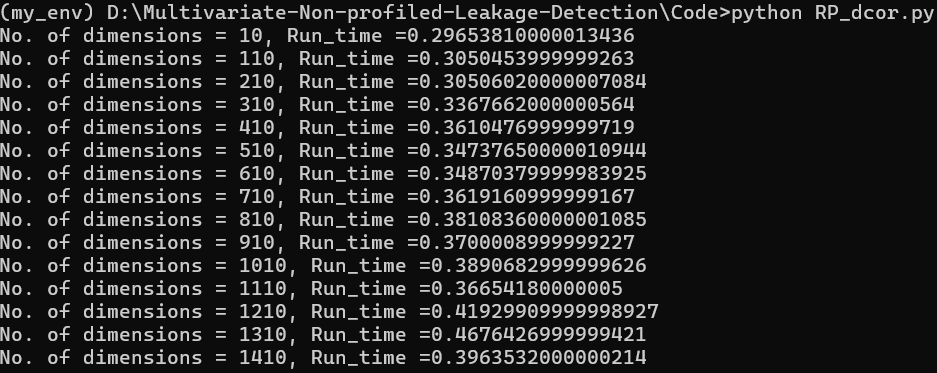
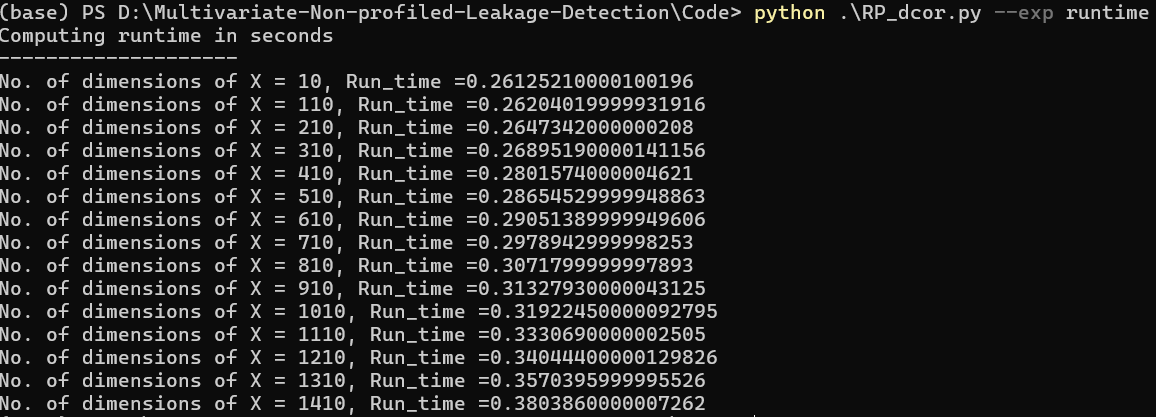
UPDATE code

Changed region(s): [[0.0, 0.0, 1.0, 1.0]]

diff --git a/Code/RP_dcor.py b/Code/RP_dcor.py
@@ -19,6 +19,17 @@ from mpmath import*
 from timeit import default_timer as timer # For evaluating the computation time
 
 
+## for running one of the main functions
+import argparse
+
+
+
+
+
+
+
+
+
 # Required to calculate the upper alpha point (cutoff) of gamma distribution
 def gamma_ratio(p): return np.exp(gammaln((p+1)/2) - gammaln(p/2))  # For Calculating C_p and C_q
 
@@ -235,10 +246,11 @@ def checking_correctness():
     
     # Define the mean vector and 'symmetric' Covariance matrix for multivariate Gaussian simulation
     mean_vector = np.repeat(3, dim_data)
-    A = 0.01 * np.random.rand(dim_data, dim_data) # increase the 0.01 to higher value will increase the variance values in Cov_matrix
+    delta_ = 0.1 # change the delta value for higher or lower dcov value
+    A = delta_ * np.random.rand(dim_data, dim_data) # increase the 0.01 to higher value will increase the variance values in Cov_matrix
     Cov_matrix = np.dot(A, A.transpose())  
     
-    n_samples = 3000  
+    n_samples = 500  
     print("Data size = {}".format(n_samples)) 
     
     # Simulated Data from Multivariate Gaussian Distribution----------------
@@ -248,15 +260,19 @@ def checking_correctness():
     pred_lkg = X.T[(dim_data-2):]
     
     dim_Tr = np.shape(Tr)[0]
-    print("dimension of Tr = {}".format(dim_Tr))
+    dim_pred_lkg = np.shape(pred_lkg)[0]
+
+
+    print("dimension of X = {}".format(dim_Tr))
+    print("dimension of Y = {}".format(dim_pred_lkg))    
     
     # For checking accuracy of the 'fast' dcov estimator with the 'naive' one    
-    print("distance covariance based on naive approach ={} ".format(  # Uncomment this part for higher(>5) dim_data
+    print("distance covariance between X and Y based on naive approach ={} ".format(  # Uncomment this part for higher(>5) dim_data
        u_distance_covariance_sqr(Tr.T, pred_lkg.T, method='naive')))  
     
     start = timer()
     print("Computing fast distance covariance = {}".format(
-        u_dist_cov_sqr_mv(Tr.T, pred_lkg.T)))
+        u_dist_cov_sqr_mv(Tr.T, pred_lkg.T , n_projs = 100)))
     end = timer()
     print("Time to compute fast distance covariance in seconds = {}".format(end - start))
 
@@ -270,6 +286,7 @@ def scalability_testing():
     
     # Specifiy the dimension n_d
     n_samples = int(2e03)
+    print("Computing runtime in seconds\n--------------------")
     for dim_data in range(10, 1500, 100): 
     
         # Define the mean vector and 'symmetric' Covariance matrix for multivariate Gaussian simulation
@@ -288,15 +305,46 @@ def scalability_testing():
         u_dist_cov_sqr_mv(Tr.T, pred_lkg.T)
         end = timer()
         
-        print("No. of dimensions = {}, Run_time ={}".format( dim_data ,   end - start))
+        
+        print("No. of dimensions of X = {}, Run_time ={}".format( dim_data ,   end - start))
+
+
+
+
+
+def parse_args():
+    parser = argparse.ArgumentParser(
+        description="Run MVDCOV for scalability checking"
+    )
+
+    parser.add_argument(
+        "--exp",
+        required=True,
+        choices=[
+            "runtime",
+            "correctness",
+        ],
+        help="Experiment to run",
+    )
+
+    return parser.parse_args()
+
+
+
+if __name__ == "__main__":
+    args = parse_args()
+
+    if args.exp == "runtime":
+        scalability_testing()
+
+    elif args.exp == "correctness":
+        checking_correctness()
 
 
 
 
 
 
-
-
-if __name__ == '__main__':
-    # checking_correctness() 
-    scalability_testing()
+# if __name__ == '__main__':
+#     # checking_correctness() 
+#     scalability_testing()

diff --git a/Code/leakage_test_runner.py b/Code/leakage_test_runner.py
@@ -126,8 +126,8 @@ def run_all_tests(
         stat, cutoff = diag_test(n_1, n_2, n_dim, Tr_random, Tr_fixed)
         results["diag"] = stat > cutoff
         
-     ## To use mv_gtest one have to Digitise
-     ## the trace please see Digitizer class in testnbr_dist_1.py  
+     ## To use mv_gtest one have to Digitise the trace 
+     ## please see Digitizer class in testnbr_dist_1.py  
      
     if "mv_gtest" in enabled_tests:  
         Tr, V = _build_Tr_and_V_exact(Tr_fixed, Tr_random)

diff --git a/Code/out_of_the_box_exp.py b/Code/out_of_the_box_exp.py
@@ -23,7 +23,7 @@ from scipy.special import gammaln
 
 
 
-## for running one of the main function
+## for running one of the main functions
 import argparse
 
 

diff --git a/Code/Readme.md b/Code/Readme.md
@@ -22,11 +22,18 @@ sudo pip install numpy scipy pandas dcor mpmath numba matplotlib tqdm
 
 ### USAGE:
 We are mainly examining three types of experiments: 
-1. The Scalability Test of the parallel implementation of the multivariate distance covariance metric will be obtained by running:
+1. The Scalability Test of the parallel implementation of the multivariate distance covariance (Mv-dcov) metric will be conducting both **corretness** and **runtime**. For runtime experiment, run in the terminal:
 ```
-python3 RP_dcor.py
+python3 RP_dcor.py --exp correctness
 ```
-Apart from scalability, the correctness of our parallel implementation of Mv-dcov was verified by uncommenting the ``checking_correctness()`` main function in RP_dcor.py. We have implemented the fast MV-dcov utilising the published paper on [A Statistically and Numerically Efficient Independence Test Based on Random Projections and Distance Covariance](https://www.frontiersin.org/journals/applied-mathematics-and-statistics/articles/10.3389/fams.2021.779841/full#supplementary-material). Here is the snippet of the run-time scalability test of MV-dcov:
+The correctness of our parallel implementation of Mv-dcov was verified by:
+```
+python3 RP_dcor.py --exp runtime
+```
+
+Here, We have implemented the fast MV-dcov utilising the published paper on [A Statistically and Numerically Efficient Independence Test Based on Random Projections and Distance Covariance](https://www.frontiersin.org/journals/applied-mathematics-and-statistics/articles/10.3389/fams.2021.779841/full#supplementary-material). 
+
+The snippet of the run-time scalability test of MV-dcov:
 
 <div style="height:300px; width:500px; overflow:auto; border:1px solid #ccc;">
   <img 
@@ -36,7 +43,7 @@ Apart from scalability, the correctness of our parallel implementation of Mv-dco
 </div>
 
 2. Simulated Multivariate Leakage Detection:
-For the simulated leakage detection, please run:
+For the simulated leakage detection, run:
 ```
 python3 out_of_the_box_exp.py --exp simulated_exp
 ```